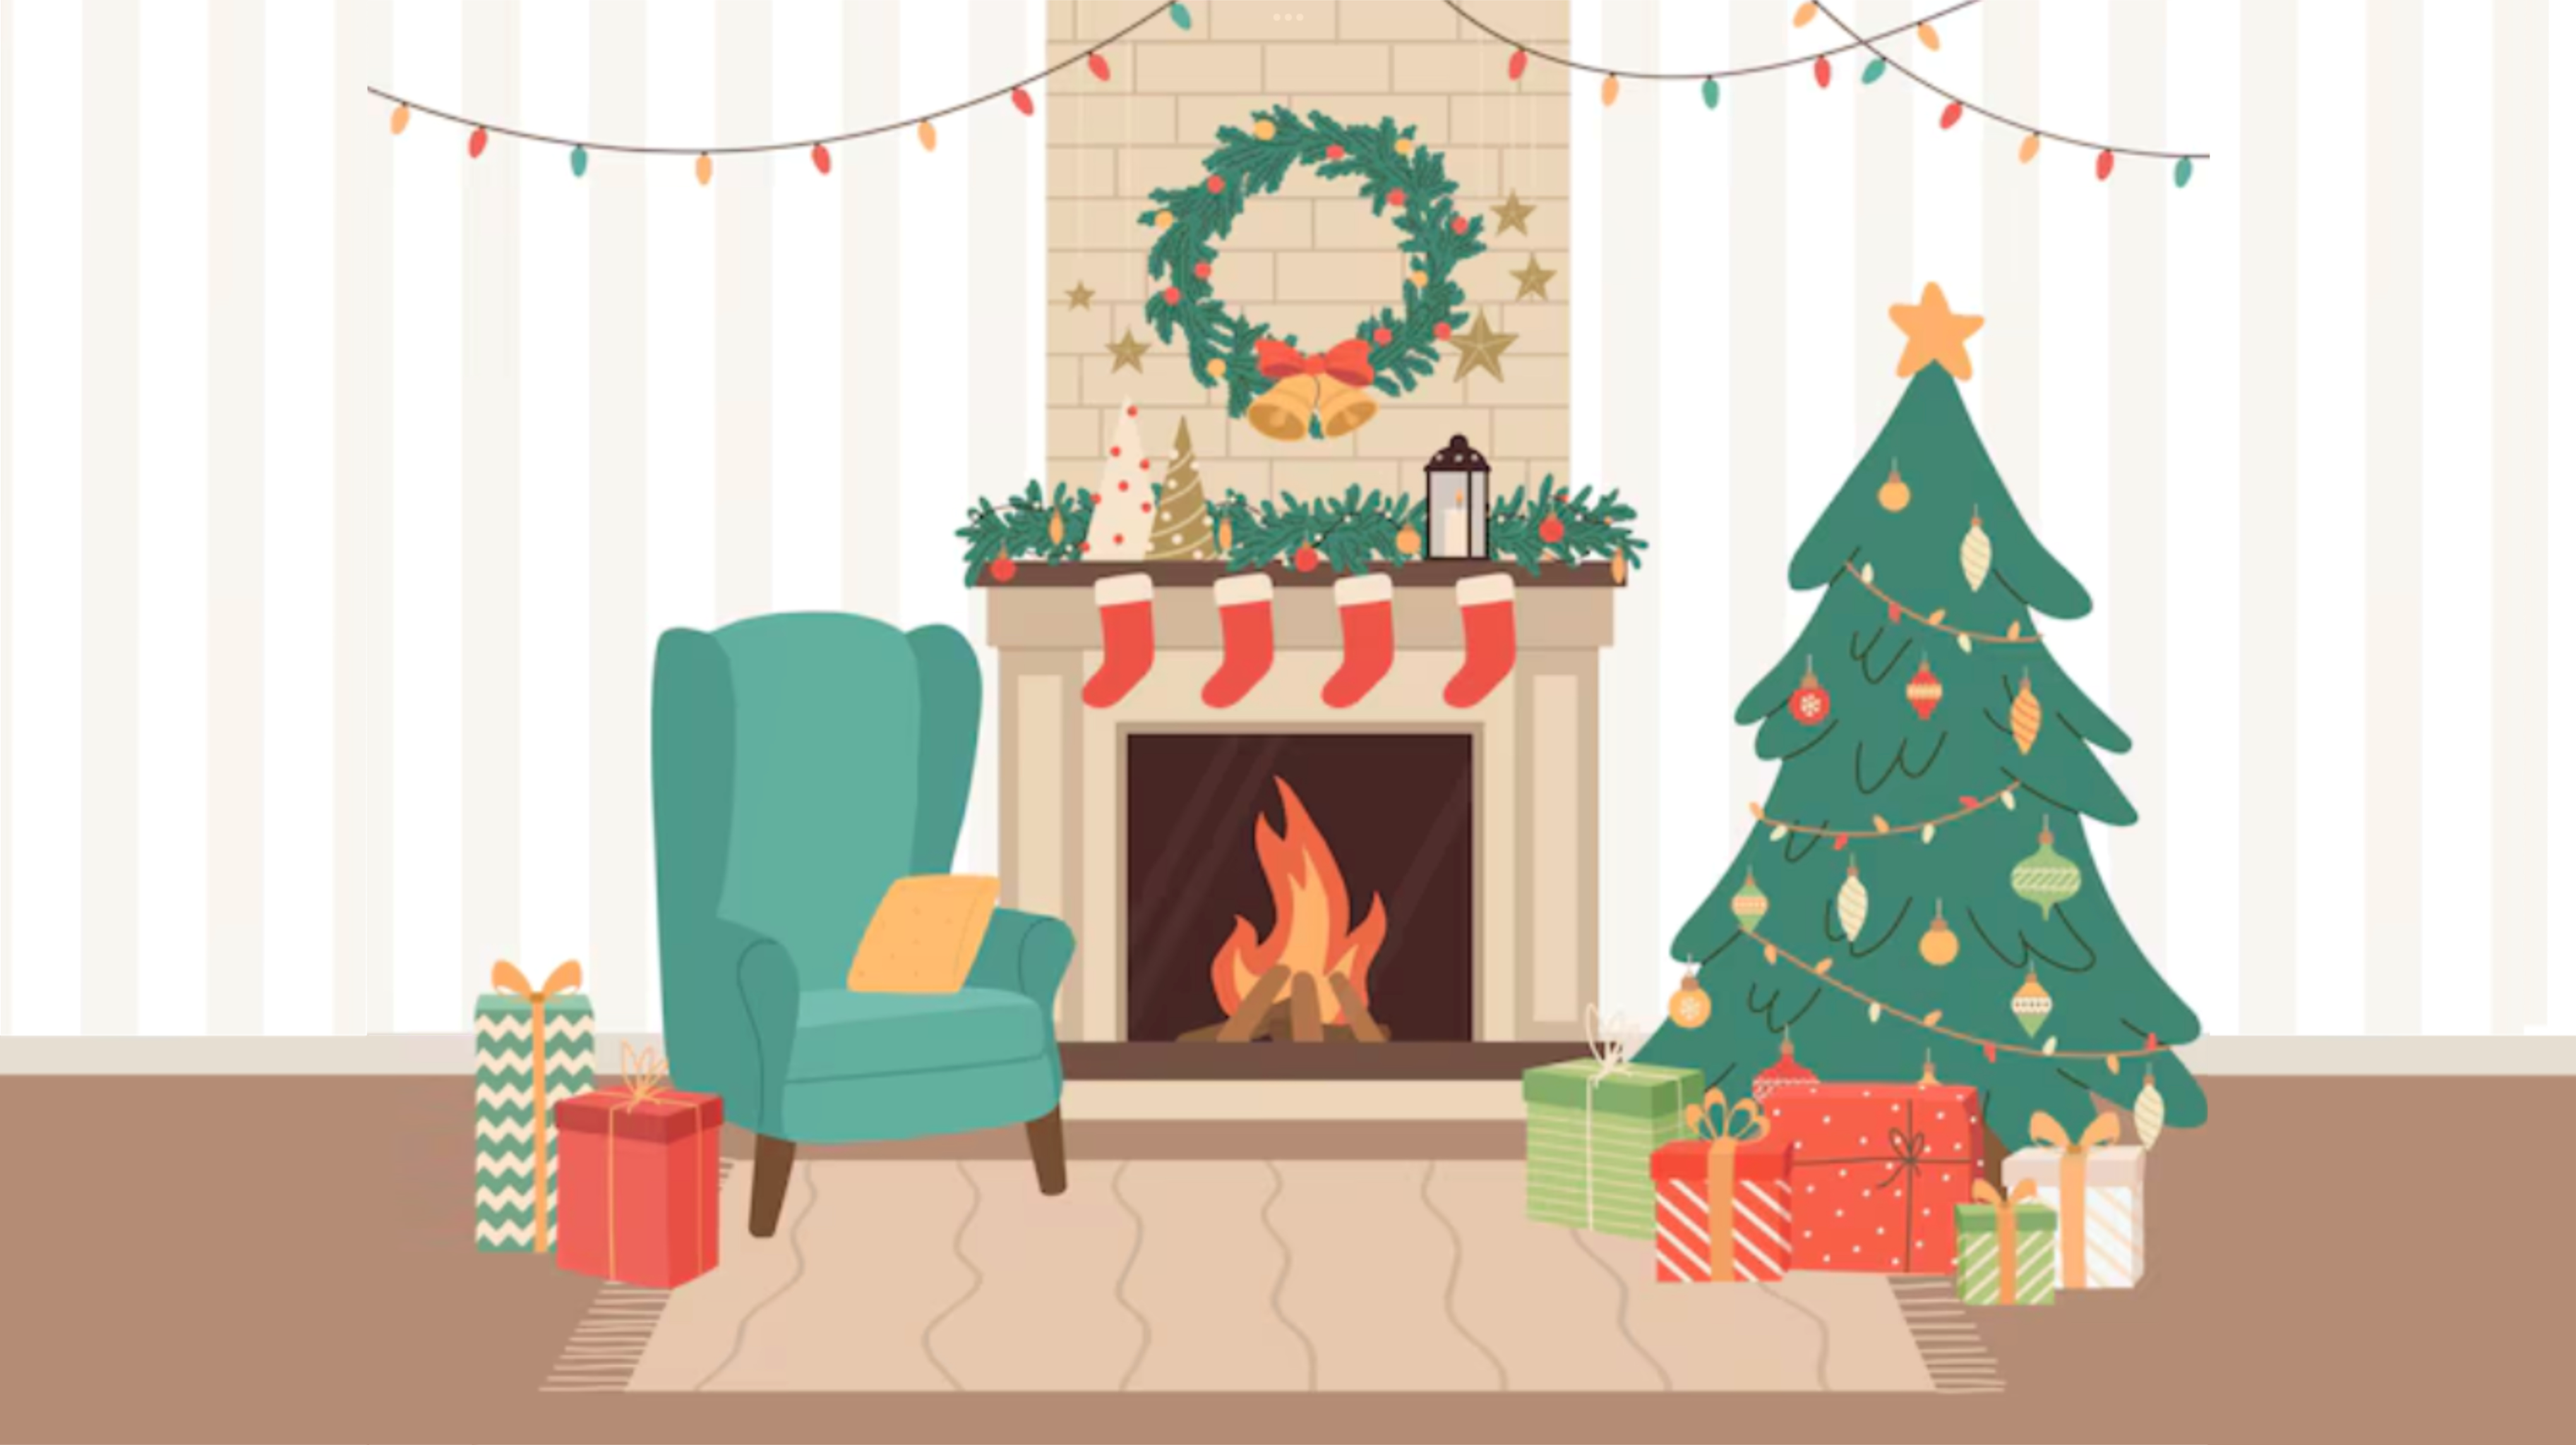
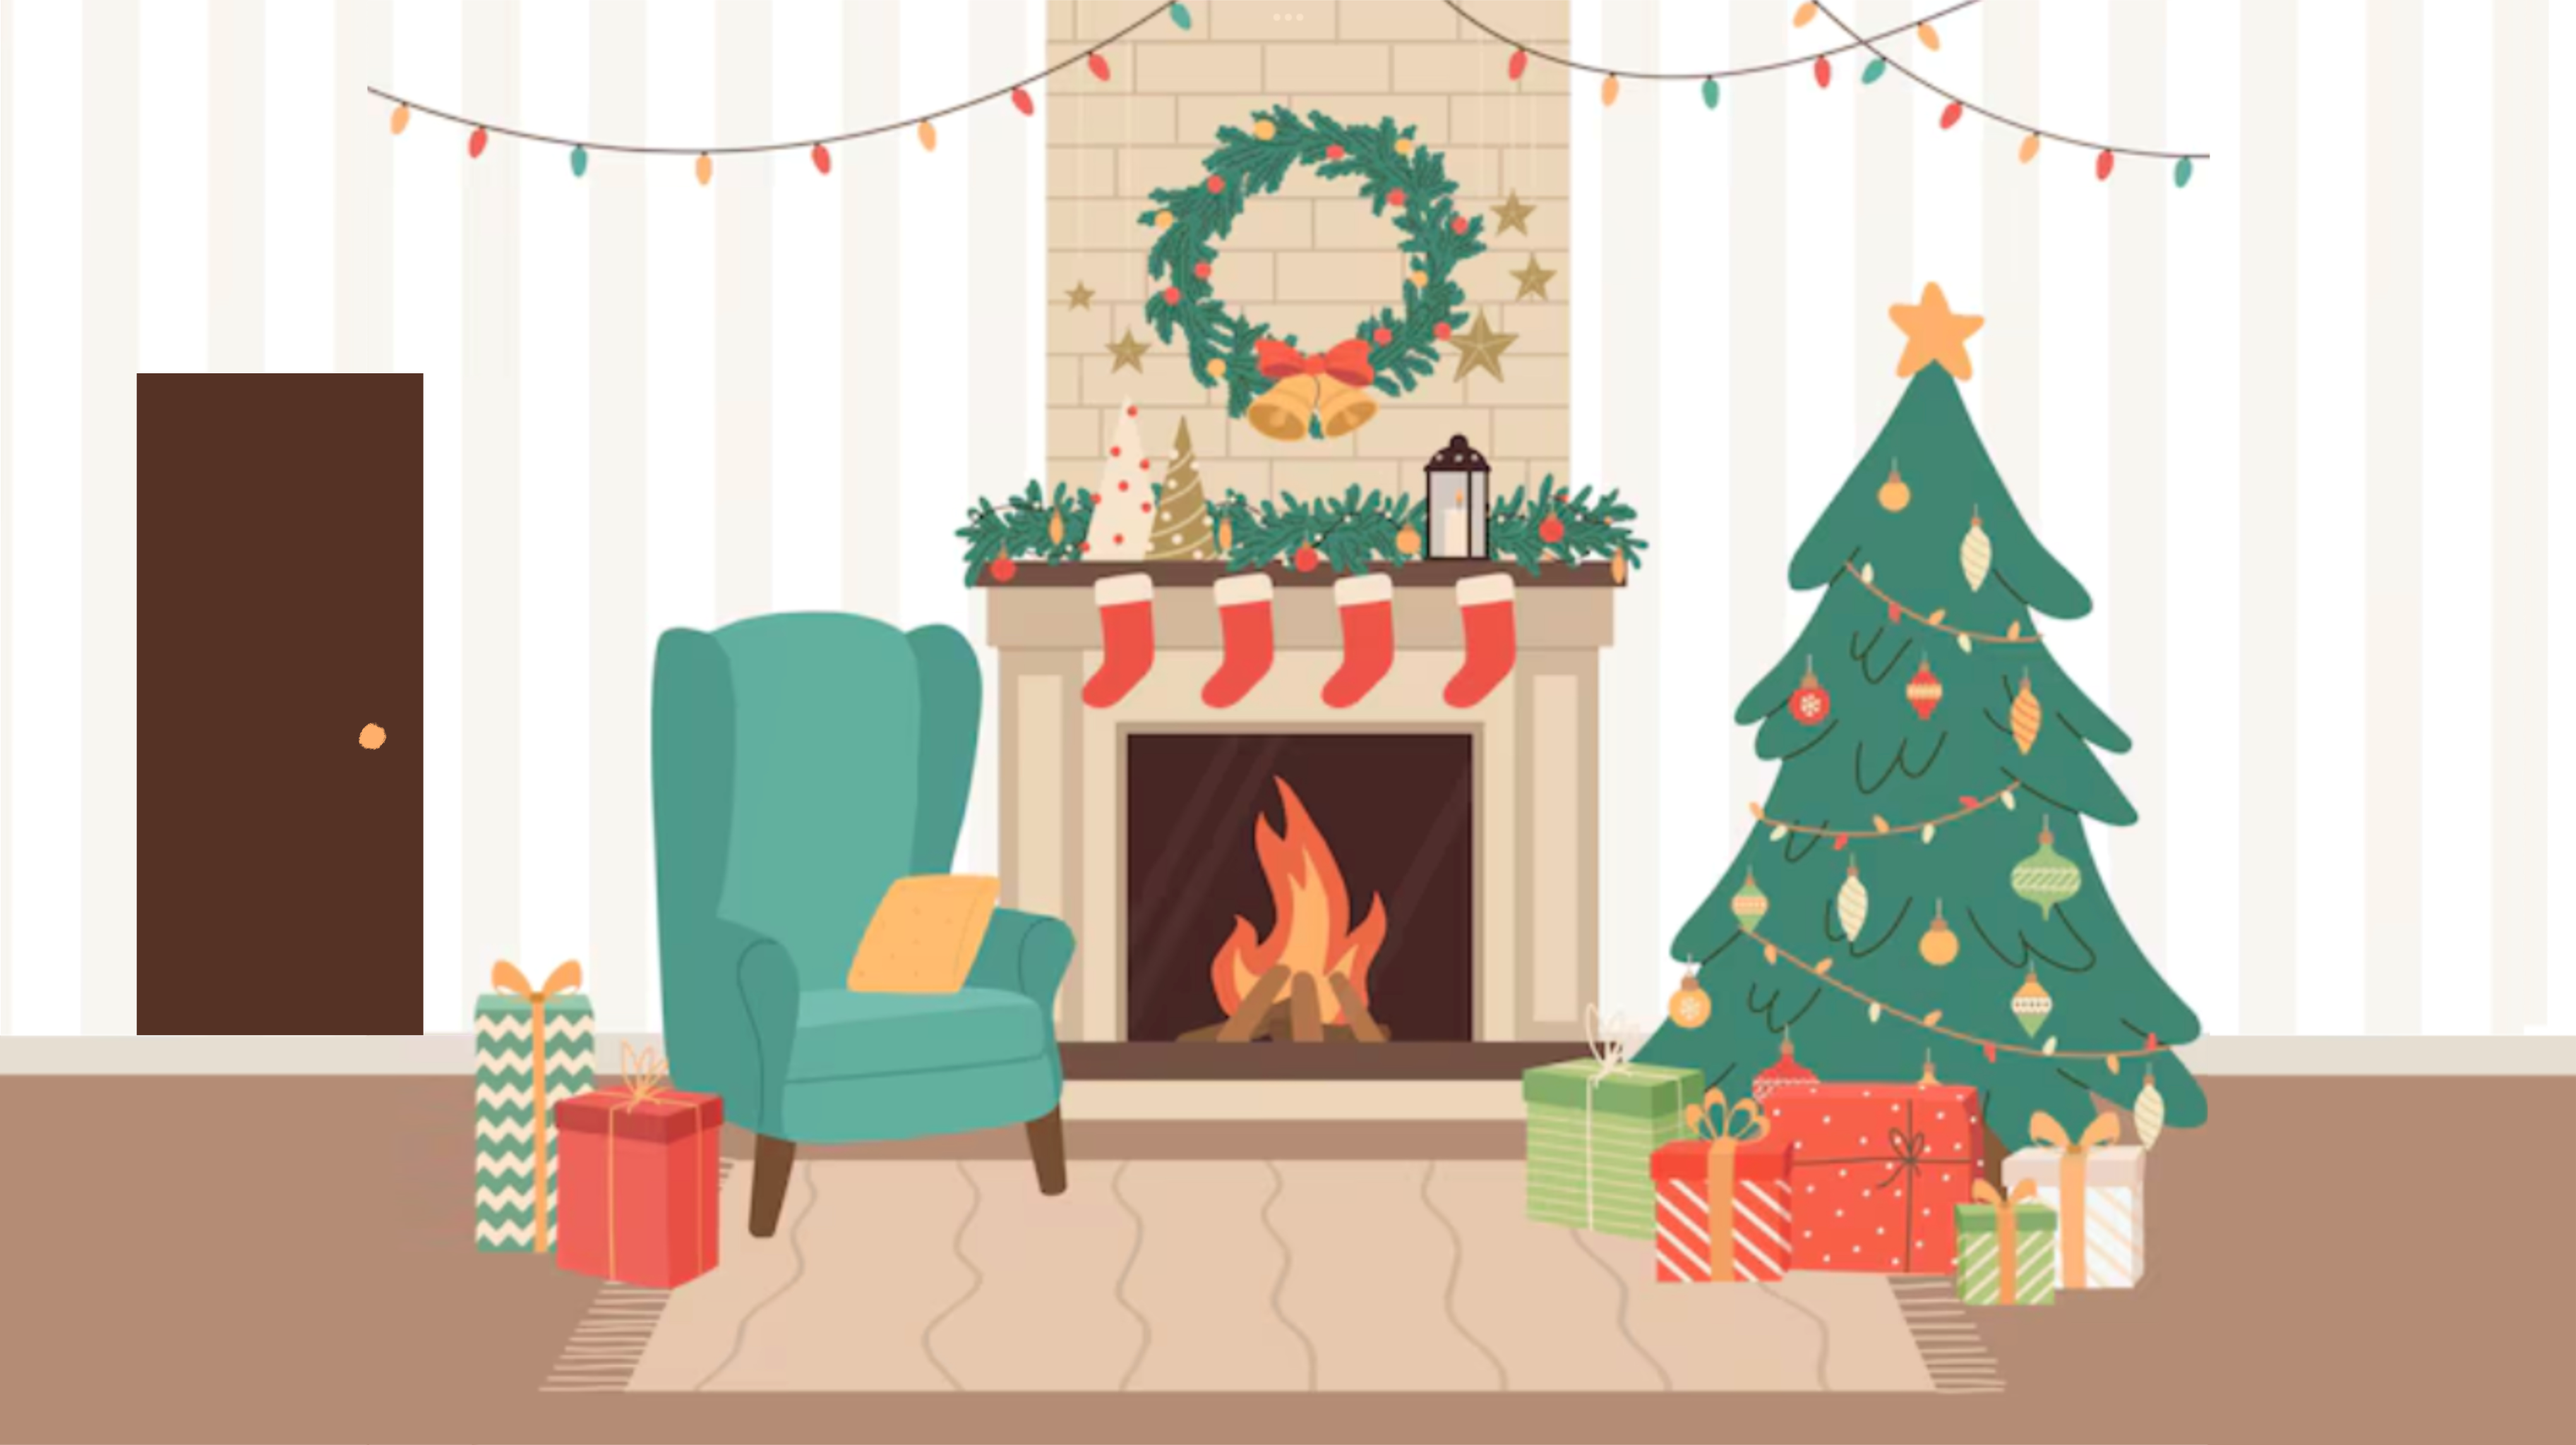
added door to living room that can bring you back to town scene

Changed region(s): [[0.0312, 0.25, 0.1874, 0.7188]]

diff --git a/sketch.js b/sketch.js
@@ -6,6 +6,7 @@ let pageImages = []; // array of images
 let consequences = []; // array of lists (aka as arrays)
 
 let doorColor;
+let doorColor_livingroom;
 
 let clouds = [];
 
@@ -65,10 +66,11 @@ function preload() {
 function draw() {
   displayCurrentPage();
 
-  for (let i = 0; i < clouds.length; i++) {
-    clouds[i].move();
-    clouds[i].display();
+  // Only show clouds when on the first scene (index 0)
+  if (currentPageIndex === 0) {
+    updateAndDrawClouds();
   }
+
 
 }
 
@@ -81,6 +83,7 @@ function setup() {
   background(0);
 
   doorColor = color('#893f00');
+  doorColor_livingroom = color('#5b3022');
 
   for (let i = 0; i < 5; i++) {
     let xPos = random(0, width);
@@ -147,13 +150,19 @@ function mousePressed() {
   if (detectColor(doorColor)) {
     currentPageIndex = 1; // go to next scene
   }
+  else if (currentPageIndex === 1 && detectColor(doorColor_livingroom)) {
+    currentPageIndex = 0; // go back to town
+  }
+
 }
+
 
 function drawClouds(x,y,spacing,dia){
  
   push();
   translate(x,y);// using translate to move shapes together
  
+  fill(250, 250, 250, 150);
   circle(0,0,dia);// center puff
   circle(-spacing,0,dia);// left puff
   circle(spacing,0,dia);// right puff
@@ -161,3 +170,11 @@ function drawClouds(x,y,spacing,dia){
  
   pop();
 }
+
+function updateAndDrawClouds() {
+  for (let i = 0; i < clouds.length; i++) {
+    clouds[i].move();
+    clouds[i].display();
+  }
+}
+
